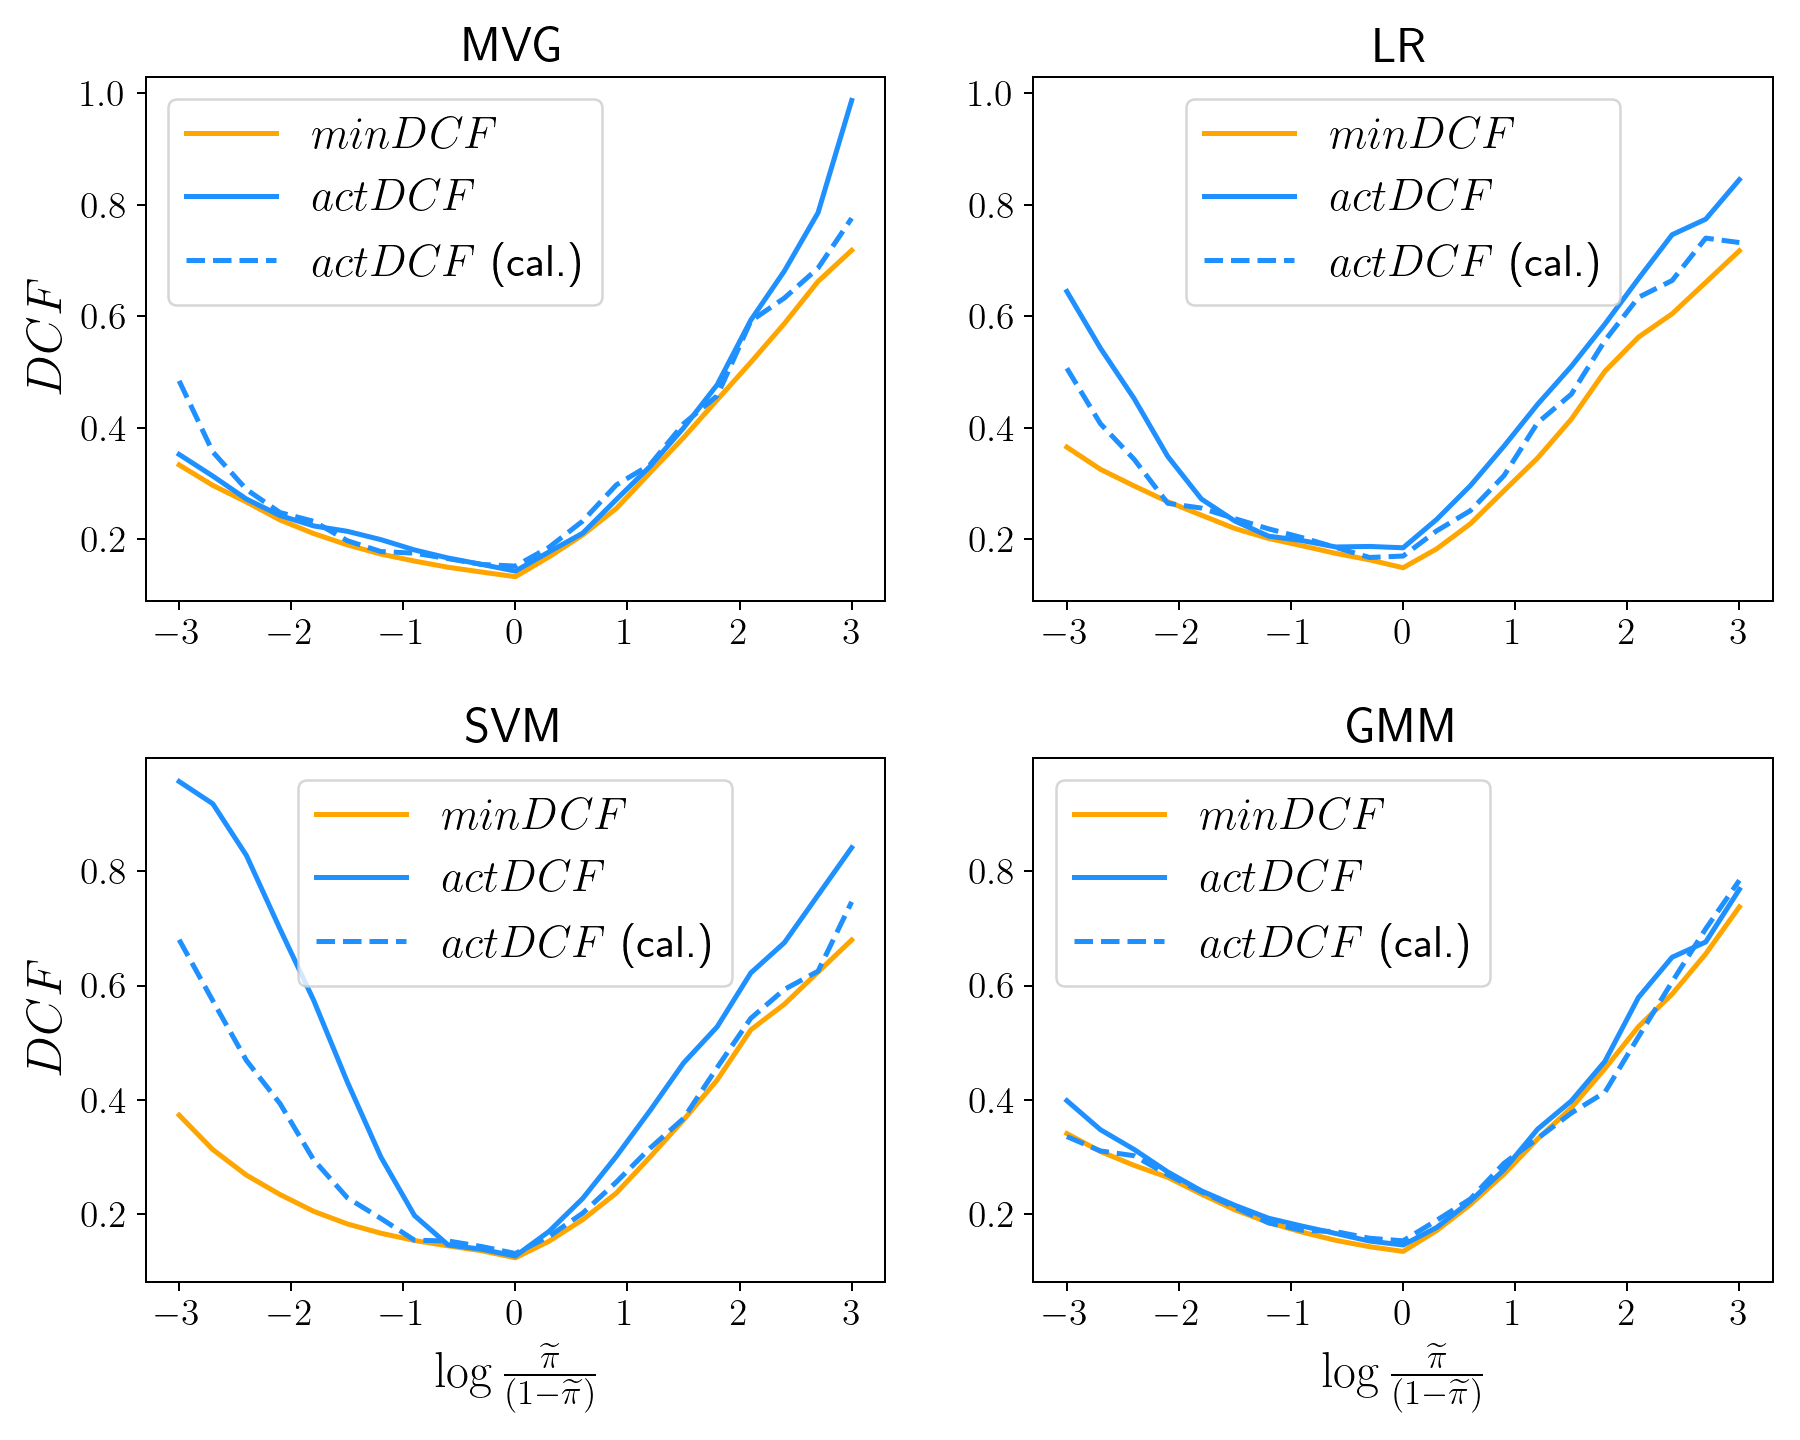
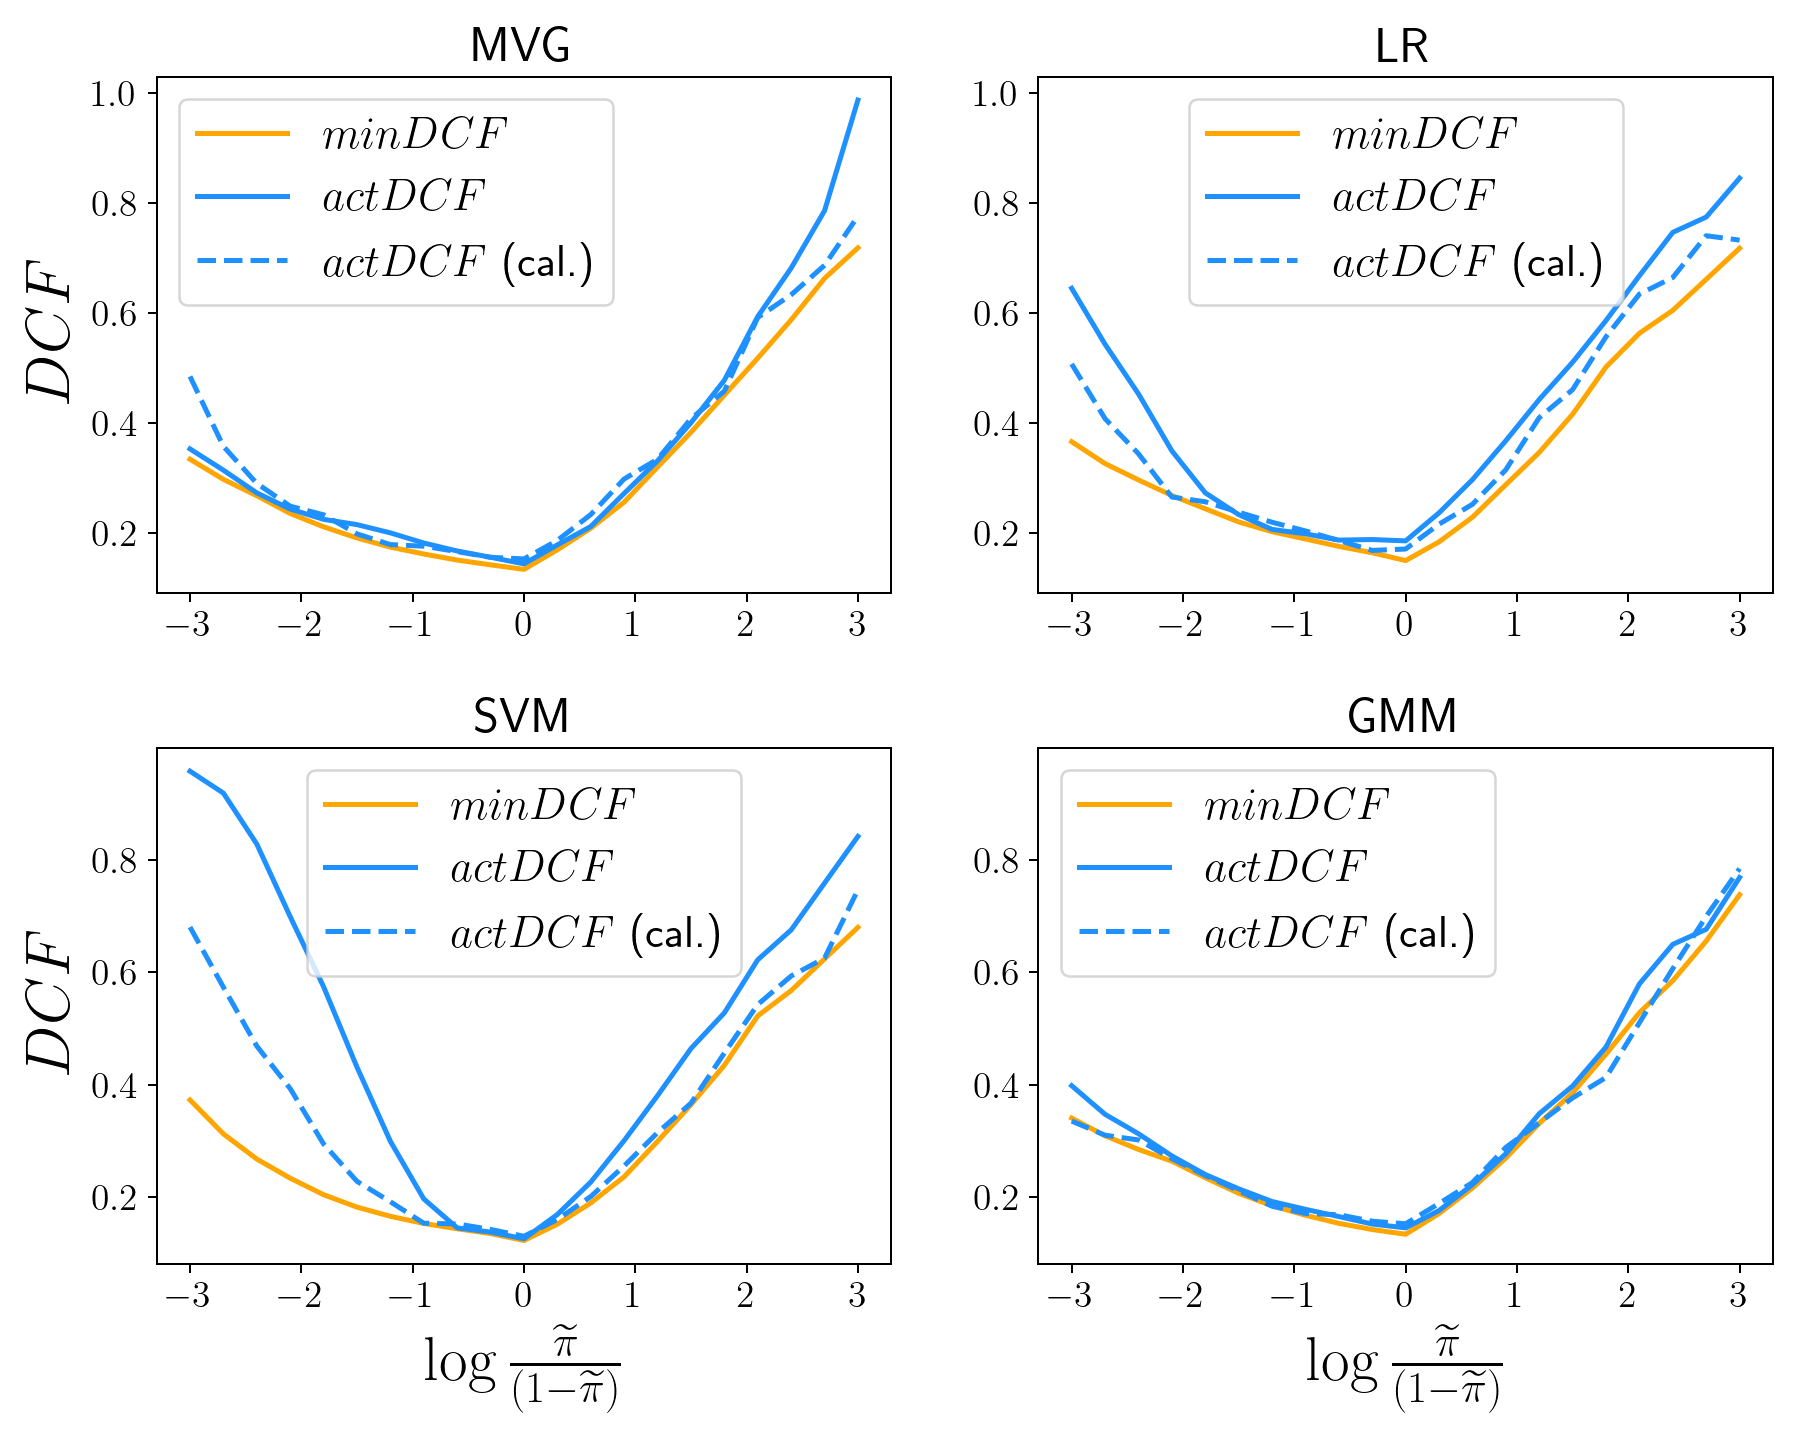
New plots +  minor changes

diff --git a/utils/plot_utils.py b/utils/plot_utils.py
@@ -579,7 +579,7 @@ def bayes_error_plots(classifiers, after=False, evaluation=False):
         "axes.titlesize": 20,
         "xtick.labelsize": 15,
         "ytick.labelsize": 15,
-        "axes.labelsize": 20,
+        "axes.labelsize": 25,
         "legend.fontsize": 18,
         "figure.dpi": 180
     })
